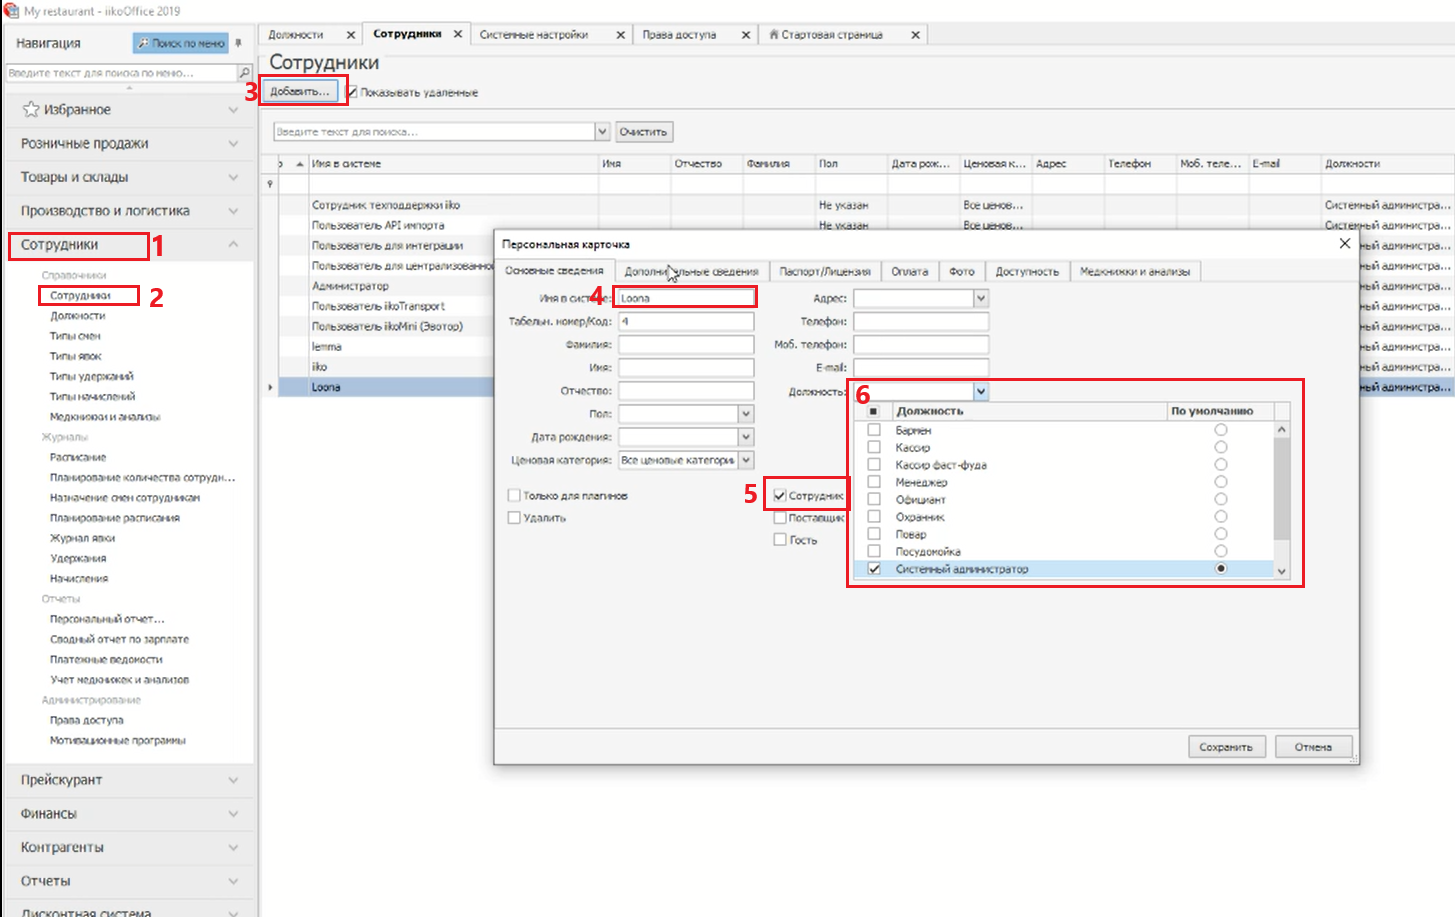
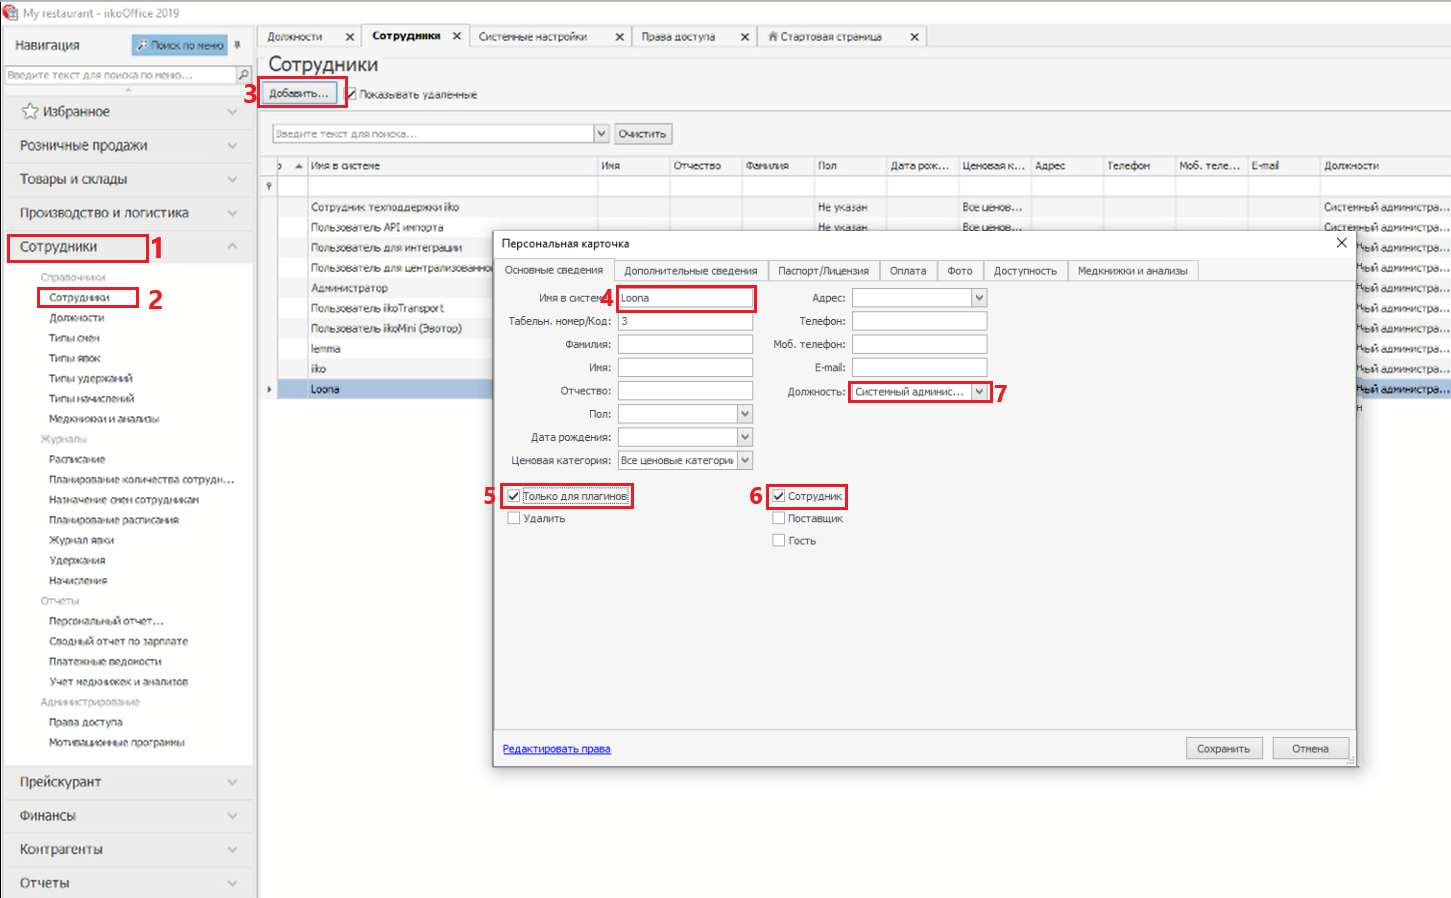
publish: Updated iiko documentation
generated from commit 7132edd2ff26fbee0ecdbd638f8f7040cc6c9af7

diff --git a/guides/integration.html b/guides/integration.html
@@ -215,39 +215,16 @@
       <div class="content">
         <h1 id='iiko'>iiko</h1><h2 id='b022bdab41'>Установка плагина</h2>
 <ul>
-<li><p>Копируем папку LoonaPluginSettings в C:\Users\YourUserName\ProgramData </p></li>
+<li><p>Копируем папку LoonaPluginSettings в C:\ProgramData </p></li>
 <li><p>Копируем папки LoonaPlugin и iikoWaiter5 в директорию iikoFront/Plugins (в нашем случае C:\Program Files\iiko\iikoRMS\Front.Net\Plugins)</p></li>
 <li><p>Запускаем iiko Front (помним что для данного метода нужна лицензии типа iikoTableService, iikoWaiter, iikoFrontPaymentPlugin)</p></li>
-<li><p>В iiko Front переходим в раздел “Дополнения” и выбираем “Loona settings”</p></li>
-<li><p>Введите Логин и Пароль</p></li>
-</ul>
-
-<p><img src="../images/iiko1.PNG" width="900"></p>
-
-<ul>
-<li><p>Открываем Браузер</p></li>
-<li><p>Заходим на http://localhost:1234/settings</p></li>
-<li><p><strong>Задаем настройки плагина:</strong></p>
-
-<ul>
-<li>Api access token - доступен после создания сканера в кабинете</li>
-<li>Api base url - https://api.loona.ai<br></li>
-<li>Plugin url - http://localhost<br></li>
-<li>Waiter port - 1234</li>
-</ul></li>
-<li><p>Далее заполняем детали всех имеющихся уровней скидок в кабинете, и называем их</p></li>
-</ul>
-
-<p><img src="../images/iiko%20plugin%20settings.png" width="900"></p>
-
-<ul>
 <li><p><strong>Установка Скидки:</strong></p></li>
 <li><p>Открываем iiko Office</p>
 
 <ul>
 <li>Переходим в раздел Дисконтная Система -&gt; Скидки и Надбавки</li>
 <li>Добавляем скидку</li>
-<li>Обязательно пишем названия скидок <em>совпадающие с настройками плагина</em></li>
+<li>Пишем свои названия скидок как показано ниже, они будут использованы в настройках плагина</li>
 <li>Тип скидки ставим Скидки и Надбавки</li>
 <li>Нажимаем Далее</li>
 </ul></li>
@@ -269,13 +246,30 @@
 
 <ul>
 <li><p>Нажимаем Далее и заканчиваем установку скидки.</p></li>
-<li><p>Повторяем добавление скидки со всеми имеющимися уровнями скидок</p></li>
-<li><p>Добавление Бонуса:</p></li>
+<li><p><strong>Повторяем добавление скидки со всеми имеющимися уровнями скидок</strong></p></li>
+<li><p><strong>Задаем настройки плагина:</strong></p></li>
+<li><p>Открываем Браузер</p></li>
+<li><p>Заходим на http://localhost:1234/settings</p></li>
+<li><p>Задаем настройки:</p>
+
+<ul>
+<li>Api access token - доступен после создания сканера в кабинете</li>
+<li>Api base url - https://api.loona.ai<br></li>
+<li>Plugin url - http://localhost<br></li>
+<li>Waiter port - 1234</li>
+</ul></li>
+<li><p>Далее заполняем детали всех имеющихся уровней скидок в кабинете, и <strong>называем их так же как и были названы соответствующие уровни скидок в iiko office</strong></p></li>
+</ul>
+
+<p><img src="../images/iiko%20plugin%20settings.png" width="900"></p>
+
+<ul>
+<li><p><strong>Добавление Бонуса:</strong></p></li>
 <li><p>Добавляем внешний вид оплаты. Переходим в раздел “Розничные продажи”  нажимаем на “Тип платы” и добавляем новую оплату. </p></li>
 <li><p>Обязательно указываем: </p>
 
 <ul>
-<li>Наименование - LoonaPayment<br></li>
+<li>Наименование - Loona Payment<br></li>
 <li>Тип - Внешний тип оплаты<br></li>
 <li>Название в чеке - пишите что хотите<br></li>
 <li>Безналичный тип - Loona Payment</li>
@@ -289,6 +283,7 @@
 <li><p><strong>Активация 2D канера:</strong></p></li>
 <li><p>Заходим в раздел Сотрудники -&gt; Сотрудникиб и добавляем сотрудника</p></li>
 <li><p>Обязательно введите имя сотрудника &quot;Loona&quot;</p></li>
+<li><p>Ставим галочку &quot;Только для сотрудников&quot;</p></li>
 <li><p>Ставим галочку на &quot;Сотрудник&quot;</p></li>
 <li><p>Добавляем должность - &quot;Системный Администратор&quot;</p></li>
 </ul>
